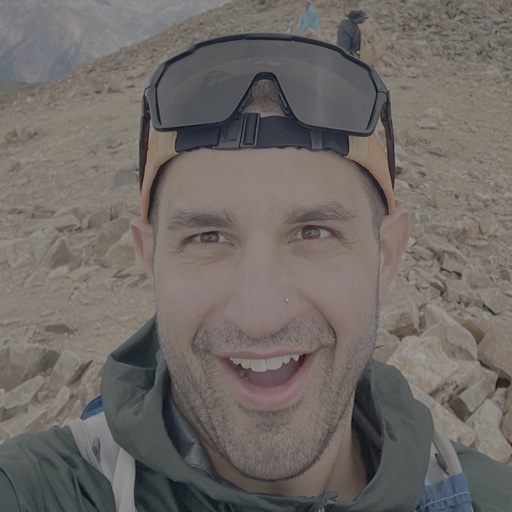
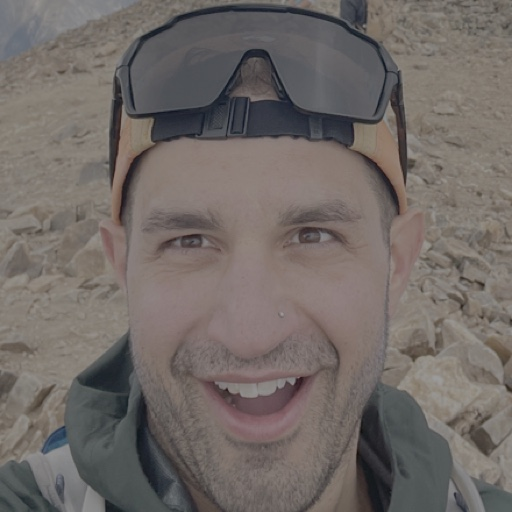
Tighter headshot crop, accent dots, grouped Core Expertise
The Elbert photo crops in on the face so the print circle reads at
size. Timeline dots take the site accent brown. Core Expertise
regroups from a 15-item flat list into three labeled rows (systems,
product, languages), dropping commodity items per current resume
guidance (grouped themed lines, 10 to 12 items, no padding tools).
Print re-verified at one page.

diff --git a/site/career/index.html b/site/career/index.html
@@ -31,9 +31,13 @@
 .printhint{font-family:var(--mono);font-size:12px;color:#8b8577;margin:10px 0 0}
 .ch2{font-size:23px;font-weight:500;letter-spacing:-.01em;margin:6px 0 0}
 .skills{font-size:17.5px;line-height:1.75}
+.skillrow{display:grid;grid-template-columns:150px 1fr;gap:18px;align-items:baseline;margin-top:10px}
+.skillrow .skills,.skillrow .sklabel{margin:0}
+.sklabel{font-family:var(--mono);font-size:12.5px;color:var(--accent)}
+@media (max-width:640px){.skillrow{grid-template-columns:1fr;gap:2px}}
 .jobs{margin-top:6px}
 .job{position:relative;padding-left:36px;margin-top:22px}
-.job::before{content:"";position:absolute;left:0;top:7px;width:14px;height:14px;border-radius:50%;background:#8fbba4;-webkit-print-color-adjust:exact;print-color-adjust:exact}
+.job::before{content:"";position:absolute;left:0;top:7px;width:14px;height:14px;border-radius:50%;background:var(--accent);-webkit-print-color-adjust:exact;print-color-adjust:exact}
 .job::after{content:"";position:absolute;left:6px;top:23px;bottom:-31px;width:2px;background:#ddd5c5}
 .job:last-child::after{display:none}
 .jt{font-size:19px;font-weight:500;margin:0}
@@ -60,8 +64,10 @@ a{color:inherit;text-decoration:none}
 .ch2{font-size:11.5pt;border-bottom:.75pt solid #999;padding-bottom:2pt}
 .sect p{max-width:none;margin:5pt 0 0;color:#1c1a16}
 .skills{font-size:9pt;line-height:1.55}
+.skillrow{grid-template-columns:78pt 1fr;gap:10pt;margin-top:4pt}
+.sklabel{font-size:8pt;color:#5b564c}
 .job{padding-left:20pt;margin-top:7pt;break-inside:avoid}
-.job::before{width:8.5pt;height:8.5pt;top:2pt;background:#7fa78f}
+.job::before{width:8.5pt;height:8.5pt;top:2pt;background:#8a5a2b}
 .job::after{left:3.5pt;top:11.5pt;bottom:-10pt;width:1.25pt;background:#cfc7b7;-webkit-print-color-adjust:exact;print-color-adjust:exact}
 .jt{font-size:10pt}
 .job p{margin:2pt 0 0}
@@ -90,7 +96,9 @@ a{color:inherit;text-decoration:none}
 <section class="sect wrap">
 <h2 class="eyebrow">$ ls skills/</h2>
 <h2 class="ch2">Core Expertise</h2>
-<p class="skills">Distributed Systems • Full-Stack Development • Site Reliability Engineering • Chaos Engineering • Cloud Infrastructure • Growth Engineering • Technical Strategy • Observability &amp; Monitoring • Kubernetes • Docker • System Architecture • React • TypeScript • Ruby • Java</p>
+<div class="skillrow"><p class="sklabel">systems/</p><p class="skills">Distributed Systems • Chaos Engineering • Site Reliability Engineering • Cloud Infrastructure • Observability</p></div>
+<div class="skillrow"><p class="sklabel">product/</p><p class="skills">0→1 Product Development • Growth Engineering • Funnel Instrumentation &amp; Attribution • Technical Strategy</p></div>
+<div class="skillrow"><p class="sklabel">languages/</p><p class="skills">TypeScript • React • Ruby • Java • Kubernetes</p></div>
 </section>
 <section class="sect wrap">
 <h2 class="eyebrow">$ git log --oneline</h2>
